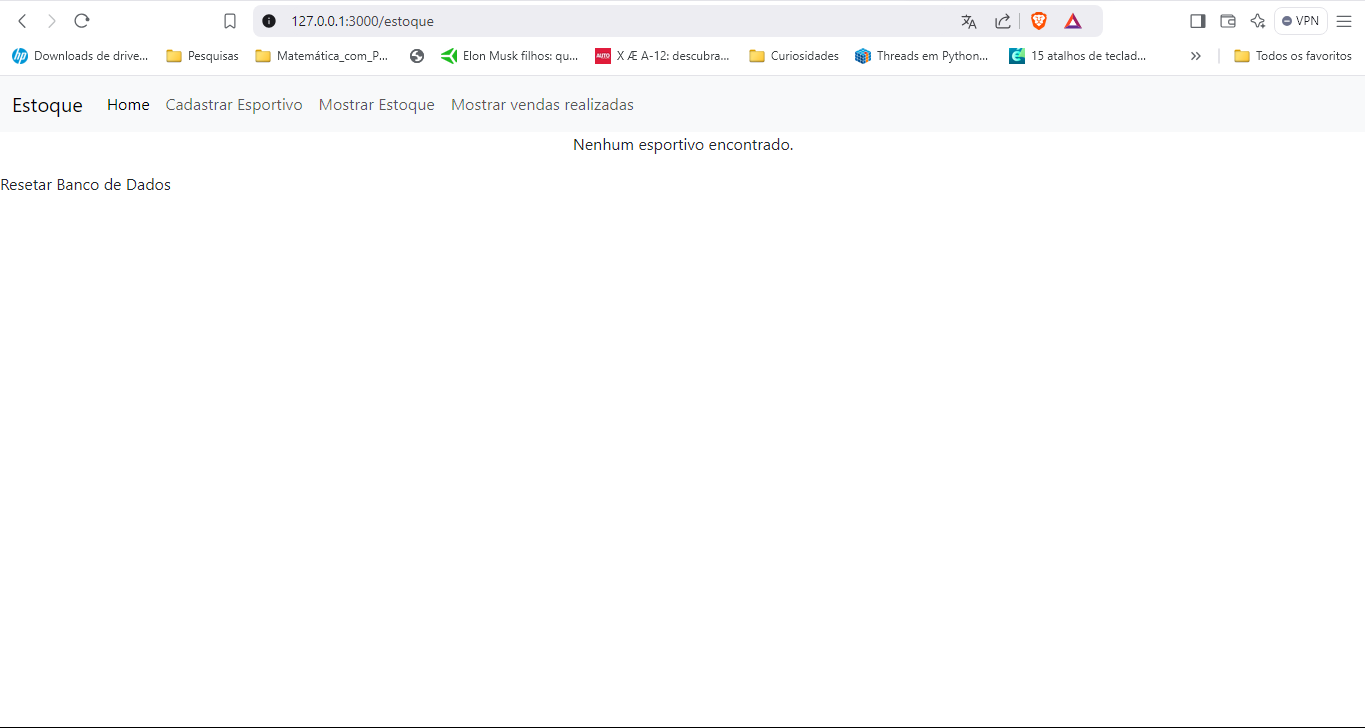
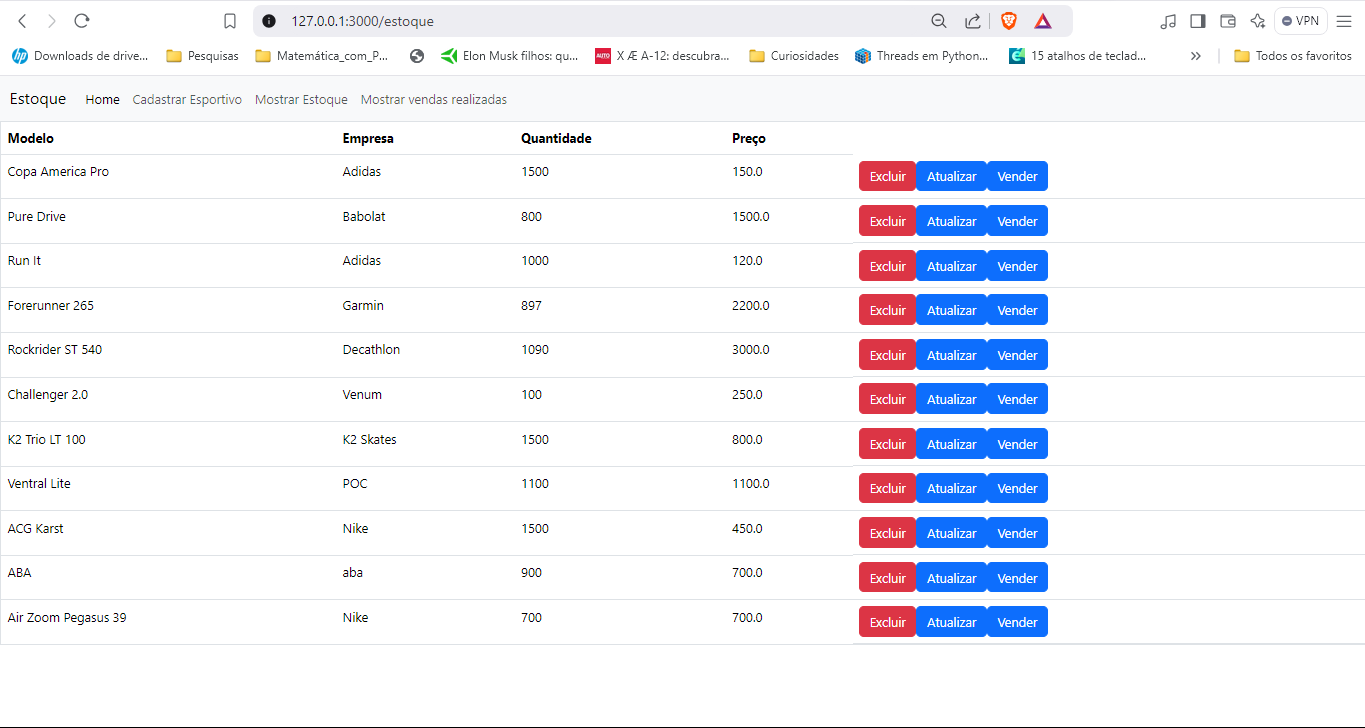
tarefa quase concluída

diff --git a/frontend/templates/atualizar.html b/frontend/templates/atualizar.html
@@ -26,10 +26,10 @@
     <script src="https://cdn.jsdelivr.net/npm/bootstrap@5.3.3/dist/js/bootstrap.bundle.min.js" integrity="sha384-YvpcrYf0tY3lHB60NNkmXc5s9fDVZLESaAA55NDzOxhy9GkcIdslK1eN7N6jIeHz" crossorigin="anonymous"></script>
     <div class="container-fluid">
         <form action="/atualizar/{{ esportivo.id }}" method="POST">
-            <label for="titulo" class="form-label">Título:</label><br>
-            <input type="text" id="modelo" name="Modelo" value="{{ esportivo.titulo }}" class="form-control"><br>
-            <label for="autor" class="form-label">Autor:</label><br>
-            <input type="text" id="empresa" name="Empresa" value="{{ esportivo.autor }}" class="form-control"><br>
+            <label for="modelo" class="form-label">Modelo:</label><br>
+            <input type="text" id="modelo" name="Modelo" value="{{ esportivo.modelo }}" class="form-control"><br>
+            <label for="autor" class="form-label">Empresa:</label><br>
+            <input type="text" id="empresa" name="Empresa" value="{{ esportivo.empresa }}" class="form-control"><br>
             <label for="quantidade" class="form-label">Quantidade:</label><br>
             <input type="text" id="quantidade" name="quantidade" value="{{ esportivo.quantidade }}" class="form-control"><br><br>
             <label for="preco" class="form-label">Preço:</label><br>

diff --git a/frontend/templates/cadastro.html b/frontend/templates/cadastro.html
@@ -36,7 +36,7 @@
             <input type="text" id="quantidade" name="quantidade" class="form-control" placeholder="890"><br><br>
 
             <label for="preco" class="form-label">Preço:</label><br>
-            <input type="text" id="preco" name="preco" class="form-control" placeholder="200,00"><br><br>
+            <input type="text" id="preco" name="preco" class="form-control" placeholder="200.00"><br><br>
             
             <input type="submit" value="Inserir" class="btn btn-primary">
         </form>

diff --git a/frontend/templates/estoque.html b/frontend/templates/estoque.html
@@ -24,7 +24,7 @@
         </div>
     </nav>
     <script src="https://cdn.jsdelivr.net/npm/bootstrap@5.3.3/dist/js/bootstrap.bundle.min.js" integrity="sha384-YvpcrYf0tY3lHB60NNkmXc5s9fDVZLESaAA55NDzOxhy9GkcIdslK1eN7N6jIeHz" crossorigin="anonymous"></script>
-    {% if esportivo %}
+    {% if esportivos %}
     <table border="1" class="table">
         <thead>
             <tr>

diff --git a/frontend/app.py b/frontend/app.py
@@ -20,7 +20,7 @@ def inserir_esportivo_form():
 # Rota para enviar os dados do formulário de cadastro para a API
 @app.route('/inserir', methods=['POST'])
 def inserir_esportivo():
-    modelo = request.form.get['modelo']
+    modelo = request.form['modelo']
     empresa = request.form['empresa']
     quantidade = request.form['quantidade']
     preco = request.form['preco']
